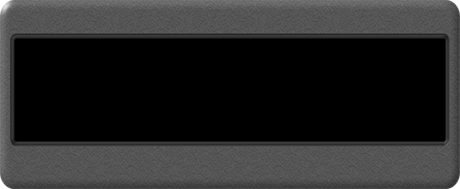
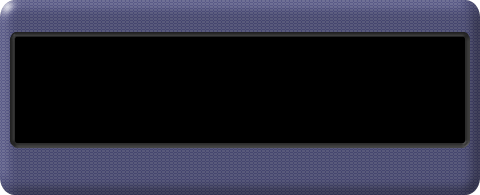
(9/14/06) - change size and color of spectrometer image so it doesn't look the control panels

diff --git a/hydrogen-atom/src/edu/colorado/phet/hydrogenatom/spectrometer/Spectrometer.java b/hydrogen-atom/src/edu/colorado/phet/hydrogenatom/spectrometer/Spectrometer.java
@@ -55,7 +55,7 @@ public class Spectrometer extends PhetPNode {
     //----------------------------------------------------------------------------
     
     private static final Color TITLE_COLOR = Color.WHITE;
-    private static final Font TITLE_FONT = new Font( HAConstants.FONT_NAME, Font.BOLD, 14 );
+    private static final Font TITLE_FONT = new Font( HAConstants.FONT_NAME, Font.PLAIN, 14 );
     
     //----------------------------------------------------------------------------
     // Instance data
